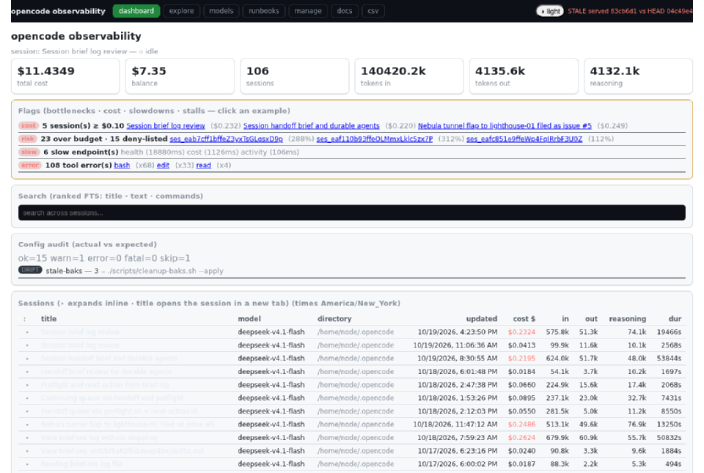
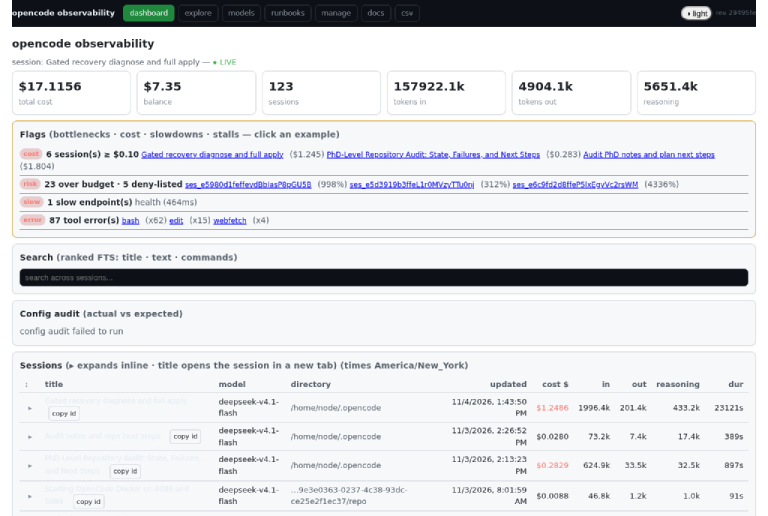
ui: live d3 diagnostic timeline, copy/readability UX, refreshed shots
- :5099: high-contrast selectable text, copy buttons for session IDs,
  activity text/commands, and timeline JSON; expand only on the control
- new live d3 Gantt (last 30 parts, moving now line) with shed messaging
- status-timeline.png added to the tour and README screenshots
- README latest state rewritten as plain bullets; HANDOFF/TODO UX-1
- headless UI test PASS; readme audit 8/0; tour check 7/7

diff --git a/scripts/panels-tour.py b/scripts/panels-tour.py
@@ -16,6 +16,7 @@ Panels (hash routing activates the tab server-side, no clicks needed):
     trends    /explore#charts      cost/sessions per day
     signals   /explore#signals     session health + guard
     patterns  /explore#patterns    recurring tool n-grams + known fixes
+    timeline  /                    focused status-timeline.png (d3 Gantt)
 
 Light theme is forced (?theme=light) so the shots read.
 Every shot is shrunk with png-shrink.mjs from the ORIGINAL bytes, trying the
@@ -78,7 +79,7 @@ def self_test() -> int:
 
 def check(out: pathlib.Path) -> int:
     """Report which expected shots are missing; never fail the build on a host gap."""
-    expected = ["status-%s.png" % name for name, _ in PANELS]
+    expected = ["status-%s.png" % name for name, _ in PANELS] + ["status-timeline.png"]
     missing = [e for e in expected if not (out / e).exists()]
     print("panels-tour: %d/%d expected shots present in %s" % (len(expected) - len(missing), len(expected), out))
     if missing:
@@ -128,6 +129,16 @@ def main() -> int:
                 print("shot", shot)
             except Exception as e:
                 print("WARN %s: %s" % (name, str(e)[:80]))
+        try:
+            pg.goto(a.base + "/?theme=light", wait_until="domcontentloaded", timeout=30000)
+            pg.wait_for_selector("#timeline svg", timeout=30000)
+            pg.wait_for_timeout(1000)
+            shot = str(out / "status-timeline.png")
+            pg.locator("#timeline-card").screenshot(path=shot)
+            shrink(shot, repo)
+            print("shot", shot)
+        except Exception as e:
+            print("WARN timeline: %s" % str(e)[:80])
         ctx.close()
 
         # 2) Tour video: its own short, low-res context so the .webm stays under

diff --git a/README.md b/README.md
@@ -6,15 +6,25 @@ through a local guard. A separate RAG repo provides local document retrieval.
 The stack runs on one host (`ws24`, `192.168.4.24`); there is no cloud control
 plane.
 
-**Latest verified state (2026-11-04).** Provider keys rotated (SubQ, Anthropic,
-LiteLLM); `guard-verify.sh` returns ALLOW rc 0 / DENY rc 2; LiteLLM is
-DB-backed and `admin` login returns 200; the TLS leaf was rotated with the same
-CA; `red-team.sh` passes (offline + live); readme audits are 8/0 (harness) and
-6/0 (RAG); artifact scan **0/2224**; harness `4 passed, 0 failed`.
-`security-posture.sh` is **16/3** on the pre-recreate container: the three
-`repo_secrets` failures are `.env.local`, `docker/litellm-db.env`, and
-`docker/certs/*` still visible through `/workspace`; the empty binds in the
-override clear them on the next `web-restart.sh --recreate` (expect **19/0**).
+## Latest verified state (2026-11-04)
+
+- The web UI and the `:5099` dashboard are running. The dashboard streams
+  cost, live activity, todos, and a live **d3 diagnostic timeline** (last 30
+  parts, moving "now" line); the activity items and session rows have copy
+  buttons, and text is selectable.
+- LiteLLM has a private Postgres. The admin UI at `127.0.0.1:4000/ui` accepts
+  `admin` + `LITELLM_MASTER_KEY` (HTTP 200); `/v1/models` is 200.
+- Provider keys were rotated. The guard allows benign reads and denies
+  destructive, exfiltration, and quote/substitution-obfuscated calls.
+- TLS was reissued with the **same local CA**, so browsers that trusted the CA
+  keep working.
+- Security posture: **16 of 19** checks pass. The 3 remaining are the
+  repo-mounted secrets (`.env.local`, `docker/litellm-db.env`,
+  `docker/certs/*`); the empty binds in the override clear them on the next
+  `web-restart.sh --recreate` (expect 19/0).
+- Artifact scan: **0 findings in 2224 files**.
+- Gates: fast harness **3/0 in 73s**; lint **328/0**; test-hygiene **63/0**;
+  dashboard inline-script execution test **PASS** (home + explore).
 
 ## Start here (first 10 minutes)
 
@@ -334,16 +344,22 @@ Regenerate every panel + a short `.webm` tour with the scripted capture:
 `python3 scripts/panels-tour.py` (needs a launchable chromium —
 `playwright install chromium`; the sandbox lacks the system libs, so run it on
 the host). It writes
-`docs/ux/status-{home,overview,board,trends,signals,patterns}.png` and
-`docs/ux/tour.webm`, shrinking each shot under the 150 KiB image budget (from
-the original, so it never double-shrinks) and recording a separate 960x540 tour
-under the 2 MiB video budget. `python3 scripts/panels-tour.py --check` lists any
-expected shot that is still missing (it reports, it does not fake a pass).
+`docs/ux/status-{home,overview,board,trends,signals,patterns}.png`, a focused
+`docs/ux/status-timeline.png`, and `docs/ux/tour.webm`, shrinking each shot
+under the 150 KiB image budget (from the original, so it never double-shrinks)
+and recording a separate 960x540 tour under the 2 MiB video budget.
+`python3 scripts/panels-tour.py --check` lists any expected shot that is still
+missing (it reports, it does not fake a pass).
 
 Dashboard home — **Flags** (bottlenecks · cost · slowdowns · stalls), sessions
 with time-zone-labelled times, cost, live activity:
 
 ![Dashboard home](docs/ux/status-home.png)
+
+Diagnostic timeline — the last 30 activity parts as a live d3 Gantt. The red
+line is “now”; the card’s **copy JSON** button copies the raw data:
+
+![Diagnostic timeline](docs/ux/status-timeline.png)
 
 `/explore ▸ overview` — search everything + the compact sessions table:
 

diff --git a/HANDOFF.md b/HANDOFF.md
@@ -8,7 +8,9 @@
 > load **19** (`dsh web` 117% CPU + many Chromium renderers) and no harness
 > process remained. Use `./scripts/gate-watch.sh ./scripts/harness.sh` to rerun
 > with a live log + heartbeat and read the last `ms=/ts=` line; `test-hygiene`
-> is 63/0. The dashboard is verified separately (activity 80, todos 4). **Missing / will break:**
+> is 63/0. The dashboard is verified separately (activity 80, todos 4); its UX
+> now has a live d3 diagnostic timeline, copy buttons, and selectable,
+> higher-contrast text; screenshots (home + timeline) refreshed 2026-11-04. **Missing / will break:**
 > 1. The repo is mounted at `/workspace`, so the web container can still read
 >    `/workspace/.env.local`, `/workspace/docker/litellm-db.env`, and
 >    `/workspace/docker/certs/*`. The override now hides them with empty binds

diff --git a/TODO.md b/TODO.md
@@ -177,6 +177,12 @@ Last updated: 2026-11-04
       `.env.local` and 08; added the `shed` flag/message and
       `dashboard-restart.sh`; live proof activity=80, todos=4.
 
+- [x] **UX-1 — 2026-11-04.** `:5099` readability/copy: larger high-contrast
+      text, selectable content, copy buttons for session IDs, activity
+      text/commands and timeline JSON, expand only on the control, and a live
+      d3 diagnostic Gantt (last 30 parts, moving now). Screenshots refreshed
+      (`status-home`, `status-timeline`); headless UI test PASS.
+
 - [ ] **SEC-3 — repo-mounted secrets (staged, needs recreate).** The web
       container still reads `/workspace/.env.local`,
       `/workspace/docker/litellm-db.env`, and `/workspace/docker/certs/*`.
